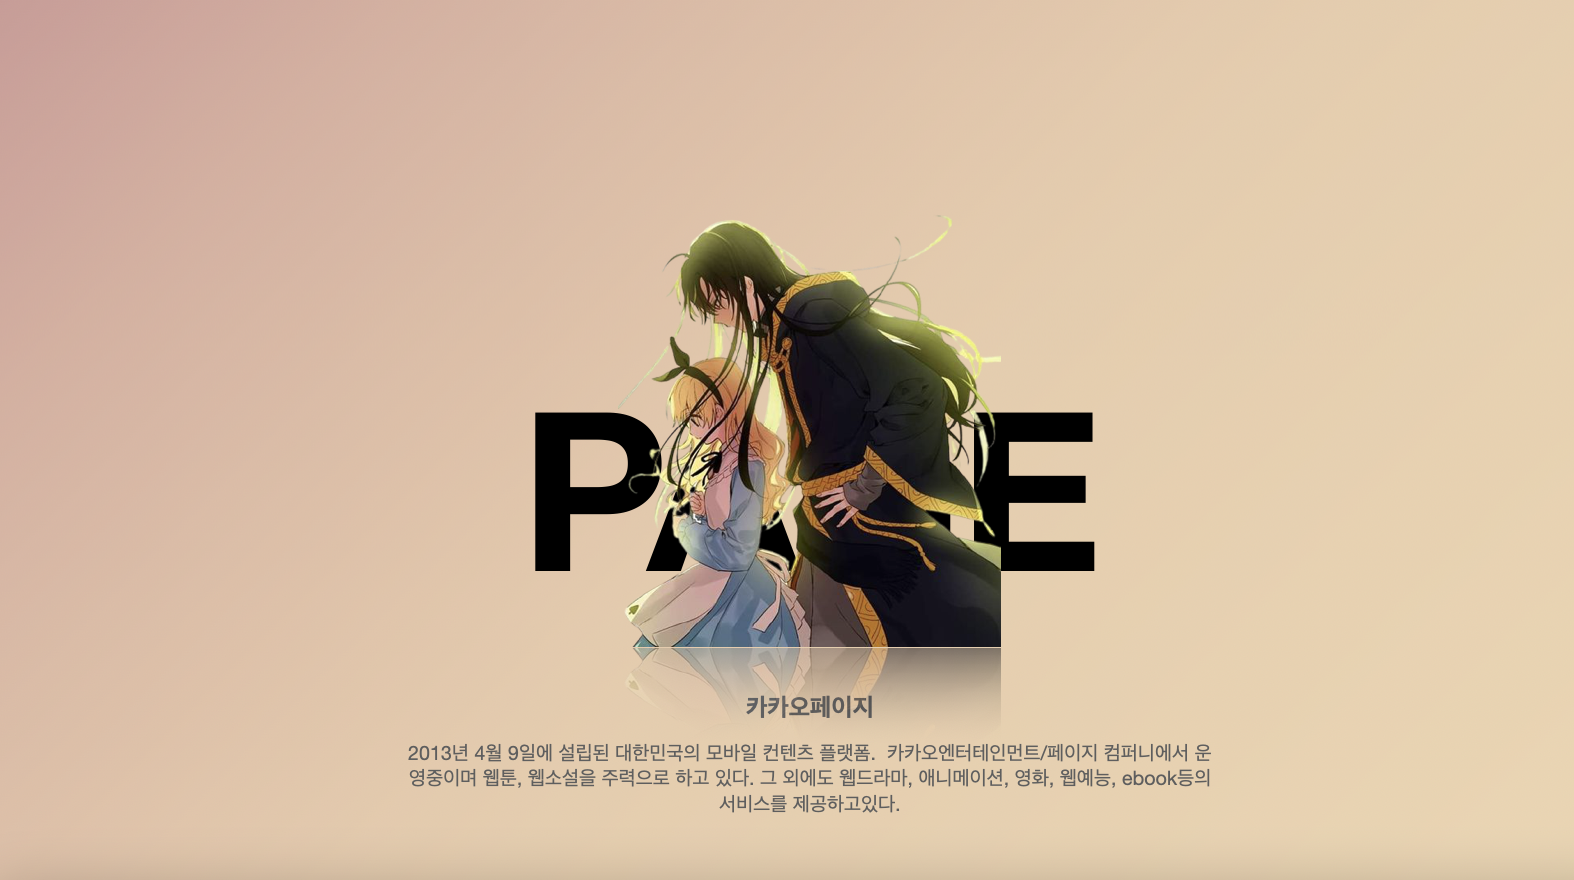
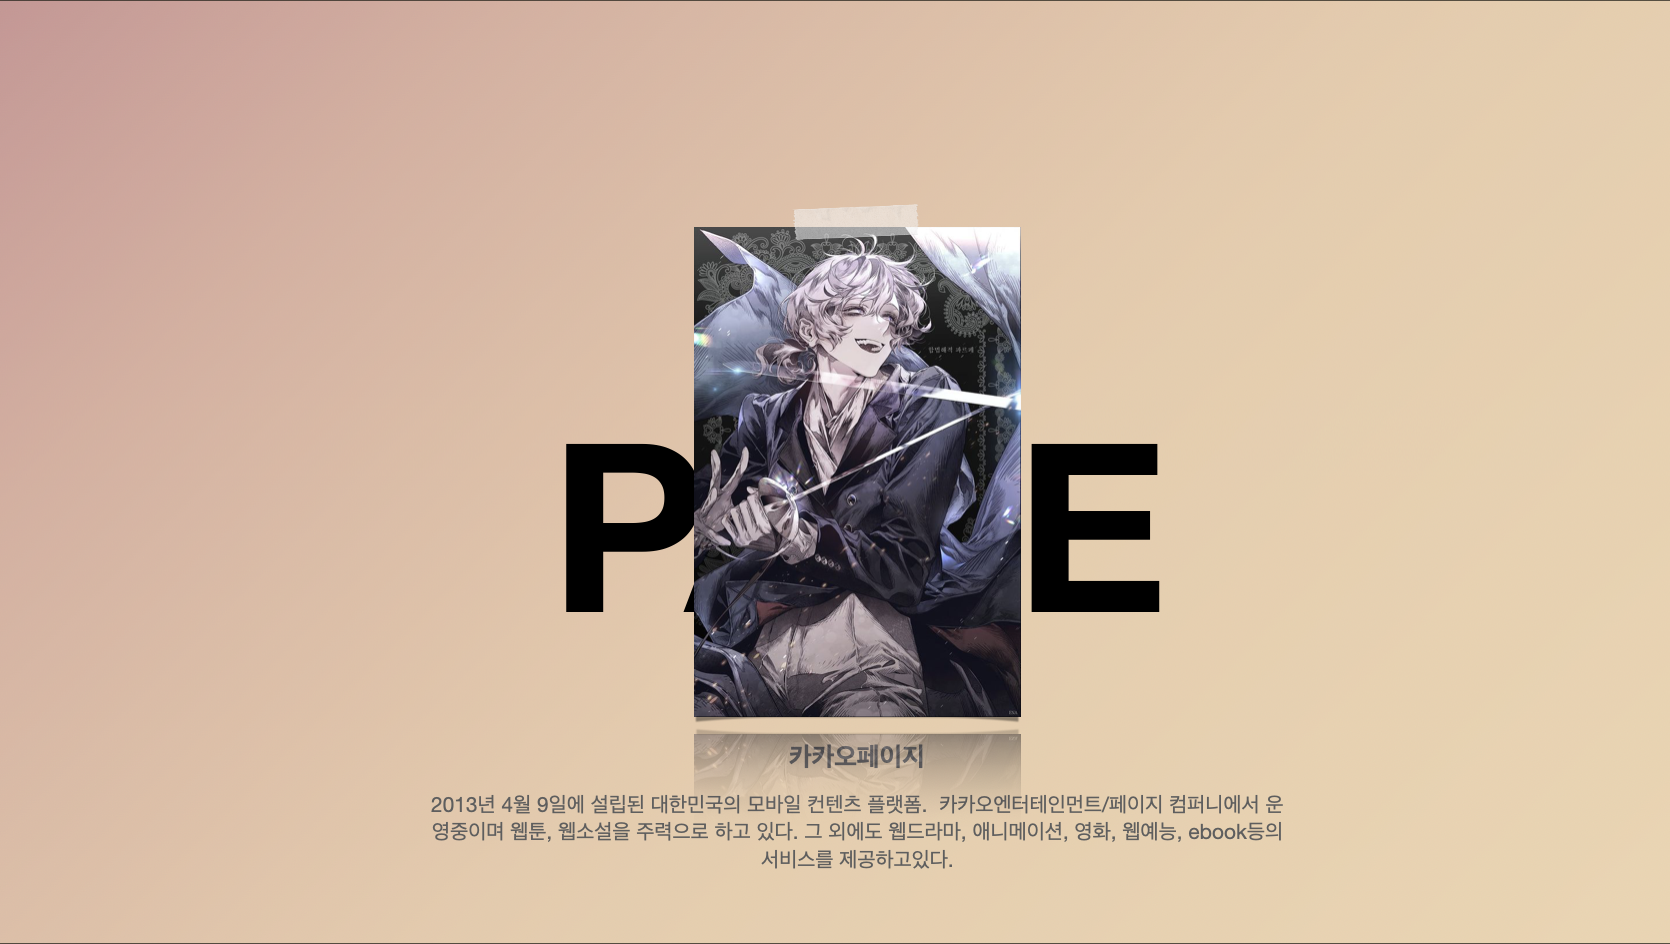
wow

Changed region(s): [[0.249, 0.2148, 0.7783, 0.9205]]

diff --git a/assets/css/screens/home.css b/assets/css/screens/home.css
@@ -136,6 +136,8 @@
   align-items: center;
   justify-content: center;
 
+  border-radius: 3px;
+
   background-color: rgb(243, 119, 119);
   border-bottom: 1px solid rgb(231, 231, 231);
   box-shadow: 0.3px 0.3px 0.3px rgb(212, 212, 212);
@@ -176,9 +178,20 @@
   align-items: center;
   justify-content: center;
 
-  background-color: rgb(134, 165, 127);
+  border-radius: 3px;
+
+  background-color: #2db400;
   border-bottom: 1px solid rgb(231, 231, 231);
-  box-shadow: 0.3px 0.3px 0.3px rgb(212, 212, 212);
+}
+
+.homebox__col1__sec__b__a2__c2__top1__logo4 {
+  width: 45px;
+  height: 45px;
+
+  image-rendering: url("img/homelogo4.png");
+  background-size: cover;
+  background-repeat: no-repeat;
+  background-position: center center;
 }
 
 .homebox__col1__sec__b__a2__c2__box1 {
@@ -277,7 +290,7 @@
 
 .homebox__col3 {
   width: 100%;
-  height: 100vh;
+  height: 110vh;
 
   display: flex;
   flex-direction: column;
@@ -295,13 +308,31 @@
 .homebox__col3__sec1__b1 {
   width: 33.3333333333%;
   height: 100%;
-  background-color: salmon;
+}
+
+.homebox__col3__sec1__b1 img {
+  width: 100%;
+  height: 100%;
+
+  image-rendering: url("img/wow6.png");
+  background-size: cover;
+  background-repeat: no-repeat;
+  background-position: center center;
 }
 
 .homebox__col3__sec1__b2 {
   width: 33.3333333333%;
   height: 100%;
-  background-color: lawngreen;
+}
+
+.homebox__col3__sec1__b2 img {
+  width: 100%;
+  height: 100%;
+
+  image-rendering: url("img/wow7.png");
+  background-size: cover;
+  background-repeat: no-repeat;
+  background-position: center center;
 }
 
 .homebox__col3__sec1__b3 {
